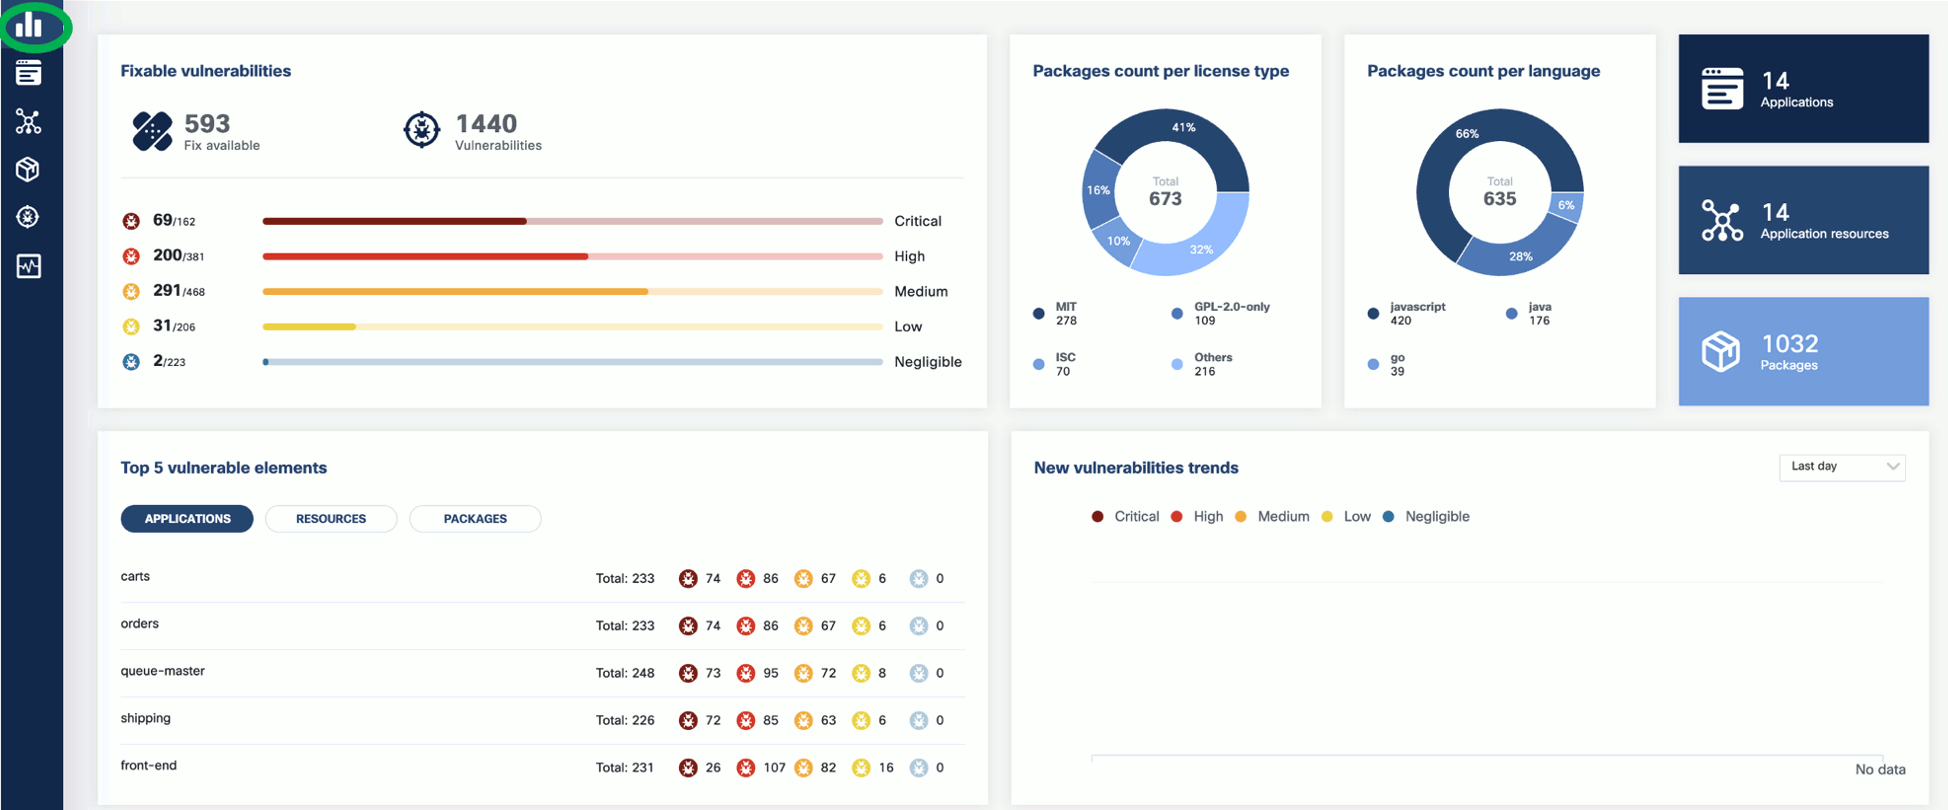
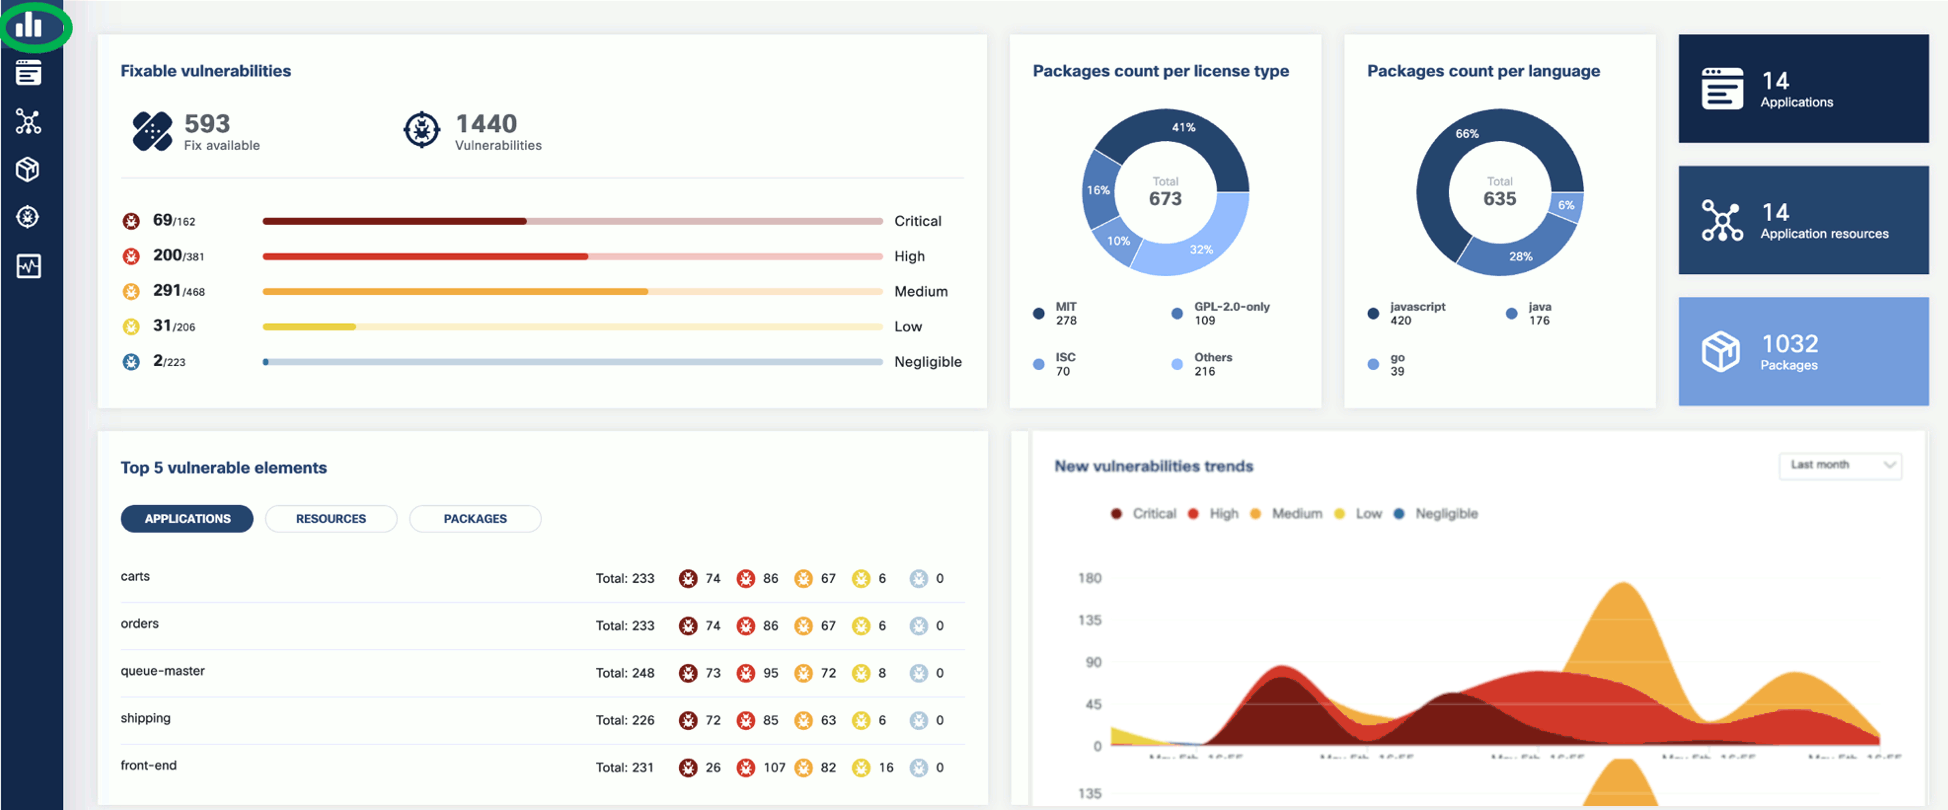
Adds vulnerability scans content
From https://techblog.cisco.com/blog/kubeclarity-vulnerability-scanning

diff --git a/content/docs/kubeclarity/concepts/vulnerability-scanning/_index.md b/content/docs/kubeclarity/concepts/vulnerability-scanning/_index.md
@@ -1,0 +1,35 @@
+---
+title: Vulnerability scanning
+weight: 300
+---
+
+Vulnerability scanning identifies weak spots in software code and dependencies. Vulnerability scanners can identify infrastructure, networks, applications, or website vulnerabilities. These tools scan various target systems for security flaws that attackers could exploit.
+
+The scanners use the information contained in the [SBOM]({{< relref "/docs/kubeclarity/concepts/sbom/_index.md" >}}) to identify vulnerabilities and potential security risks within software applications. Vulnerability scanners use SBOM information to:
+
+- Identify vulnerable components: Scanners use the SBOM to identify a software application’s components, then cross-reference this information with known vulnerabilities and security issues to identify vulnerable components within the software.
+- Prioritize vulnerabilities: After the vulnerability scanner has identified all vulnerable components within the software application, it uses the SBOM to prioritize the vulnerabilities so you can focus on the most critical vulnerabilities.
+- Identify supply chain risks: SBOMs provide visibility into the software supply chain, enabling vulnerability scanners to identify third-party or security risks. As a result, organizations can mitigate supply chain risks and reduce their overall security exposure.
+- Track changes and updates: Software vulnerability scanners use SBOM information to determine whether software changes have introduced new vulnerabilities or security risks.
+
+The SBOM is a critical tool for vulnerability scanners, providing the information needed to identify, prioritize, and mitigate security risks within software applications. In addition, scanners also rely on other types of inputs, as listed below.
+
+## KubeClarity and vulnerability scanning
+
+KubeClarity isn’t a vulnerability scanner but integrates with top opensource vulnerability scanners. It also helps with prioritization and risk management by visualization and filtering. It is often necessary to prioritize CVEs because of the sheer volume of identified CVEs. With KubeClarity’s vulnerability trending dashboard and APIs, you can locate and double-click into a specific CVE in your application or infrastructure.
+
+KubeClarity features a range of flexible and dynamic filters that help map CVEs down to an application->package->Image level. Additionally, it normalizes reports from multiple scanners and calculates missing [CVSS (Common Vulnerability Scoring System) scores](https://www.first.org/cvss/specification-document).
+
+{{< include-headless "kubeclarity/supported-vulnerability-scanners.md" >}}
+
+KubeClarity supports both automatic scans to find common vulnerabilities quickly and efficiently, and manual scans to help verify automated scans, and also to help identify more complex and less common vulnerabilities. In addition to conventional scans, KubeClarity also provides multi-scanner integration.
+
+## Multi-scanner architecture
+
+KubeClarity infrastructure enables multiple scanners’ configuration and simultaneous operation. Scanners in KubeClarity are designed to work in parallel.
+
+The following figure shows the multi-scanner architecture for vulnerability scanning: KubeClarity preprocesses the SBOMs so they conform to the specific formatting requirements of the specific scanner. Each scanner may have different types and unique formatting expectations. The scanners analyze the incoming data and generate vulnerability outputs in their native formats.
+
+![Multi-scanner architecture](multi-scanner-vulnerability-scanning.png)
+
+KubeClarity can merge the vulnerability reports of different scanners, to include severity levels, sources, and available fixes. These reports serve as valuable outputs, allowing you to filter and focus on specific areas of vulnerabilities for further investigation and resolution.

diff --git a/content/docs/kubeclarity/getting-started/first-tasks/_index.md b/content/docs/kubeclarity/getting-started/first-tasks/_index.md
@@ -25,7 +25,9 @@ You can list the content analyzers to use using the `ANALYZER_LIST` environment 
 ANALYZER_LIST="syft gomod" kubeclarity-cli analyze --input-type image nginx:latest -o nginx.sbom
 ```
 
-## Vulnerability scanning
+## Vulnerability scan
+
+You can scan vulnerabilities by running the appropriate commands. The CLI provides flexibility and automation capabilities for integrating vulnerability scanning into your existing workflows or CI/CD pipelines. The tool allows scanning an image, directory, file, or a previously generated SBOM.
 
 Usage:
 
@@ -43,6 +45,40 @@ You can list the vulnerability scanners to use using the `SCANNERS_LIST` environ
 
 ```shell
 SCANNERS_LIST="grype trivy" kubeclarity-cli scan nginx.sbom --input-type sbom
+```
+
+Example output:
+
+```shell
+INFO[0000] Called trivy scanner on source sbom nginx.sbom  app=kubeclarity scanner=trivy
+INFO[0000] Loading DB. update=true                       app=kubeclarity mode=local scanner=grype
+INFO[0000] Need to update DB                             app=kubeclarity scanner=trivy
+INFO[0000] DB Repository: ghcr.io/aquasecurity/trivy-db  app=kubeclarity scanner=trivy
+INFO[0000] Downloading DB...                             app=kubeclarity scanner=trivy
+INFO[0010] Gathering packages for source sbom:nginx.sbom  app=kubeclarity mode=local scanner=grype
+INFO[0010] Found 136 vulnerabilities                     app=kubeclarity mode=local scanner=grype
+INFO[0011] Sending successful results                    app=kubeclarity mode=local scanner=grype
+INFO[0011] Got result for job "grype"                    app=kubeclarity
+INFO[0012] Vulnerability scanning is enabled             app=kubeclarity scanner=trivy
+INFO[0012] Detected SBOM format: cyclonedx-json          app=kubeclarity scanner=trivy
+INFO[0012] Detected OS: debian                           app=kubeclarity scanner=trivy
+INFO[0012] Detecting Debian vulnerabilities...           app=kubeclarity scanner=trivy
+INFO[0012] Number of language-specific files: 1          app=kubeclarity scanner=trivy
+INFO[0012] Detecting jar vulnerabilities...              app=kubeclarity scanner=trivy
+INFO[0012] Sending successful results                    app=kubeclarity scanner=trivy
+INFO[0012] Found 136 vulnerabilities                     app=kubeclarity scanner=trivy
+INFO[0012] Got result for job "trivy"                    app=kubeclarity
+INFO[0012] Merging result from "grype"                   app=kubeclarity
+INFO[0012] Merging result from "trivy"                   app=kubeclarity
+NAME              INSTALLED                FIXED-IN  VULNERABILITY     SEVERITY    SCANNERS
+curl              7.74.0-1.3+deb11u7                 CVE-2023-23914    CRITICAL    grype(*), trivy(*)
+curl              7.74.0-1.3+deb11u7                 CVE-2023-27536    CRITICAL    grype(*), trivy(*)
+libcurl4          7.74.0-1.3+deb11u7                 CVE-2023-27536    CRITICAL    grype(*), trivy(*)
+libdb5.3          5.3.28+dfsg1-0.8                   CVE-2019-8457     CRITICAL    grype(*), trivy(*)
+libcurl4          7.74.0-1.3+deb11u7                 CVE-2023-23914    CRITICAL    grype(*), trivy(*)
+perl-base         5.32.1-4+deb11u2                   CVE-2023-31484    HIGH        grype(*), trivy(*)
+libss2            1.46.2-2                           CVE-2022-1304     HIGH        grype(*), trivy(*)
+bash              5.1-2+deb11u1                      CVE-2022-3715     HIGH        grype(*), trivy(*)
 ```
 
 ## Export results to KubeClarity backend

diff --git a/content/docs/kubeclarity/getting-started/first-tasks-ui/_index.md b/content/docs/kubeclarity/getting-started/first-tasks-ui/_index.md
@@ -12,7 +12,7 @@ After you have [installed the KubeClarity backend]({{< relref "/docs/kubeclarity
 
 <!-- FIXME what does the runtime scan actually do? -->
 
-To start a runtime scan from the UI, complete the following steps.
+To start a [runtime scan]({{< relref "/docs/kubeclarity/concepts/runtime-scans/_index.md" >}}) from the UI, complete the following steps.
 
 <!-- FIXME link to doing that from the cli -->
 
@@ -36,3 +36,25 @@ To start a runtime scan from the UI, complete the following steps.
     Now that you have run a scan, a summary of the results also appears on the dashboard page of the UI.
 
     ![Dashboard with data](dashboard-with-data.png)
+
+## Vulnerability scan
+
+1. To see the results of a vulnerability scan, select the **Vulnerabilities** page in KubeClarity UI. It shows a report including the vulnerability names, severity, the package of origin, available fixes, and attribution to the scanner that reported the vulnerability.
+
+    ![Vulnerability scan results](vulnerability-scan-results.png)
+
+1. You can click on any of these fields to access more in-depth information. For example, click on the name of a vulnerability in the **VULNERABILITY NAME** column.
+
+    ![Details of a vulnerability](vulnerability-scan-details.png)
+
+1. Select **CVSS** to show the CVSS scores and other details reported from the scanning process.
+
+    ![CVSS scores](vulnerability-scan-cvss.png)
+
+1. Navigate back to the **Vulnerabilities** view to explore the filtering options. Filtering helps you reduce noise and improve efficiency in identifying and potentially fixing crucial vulnerabilities.
+
+    ![Filtering vulnerability scan results](vulnerability-scan-filter.png)
+
+1. The KubeClarity **Dashboard** gives you insights into vulnerability trends and fixable vulnerabilities.
+
+    ![KubeClarity dashboard](dashboard-with-data.png)

diff --git a/content/docs/kubeclarity/features/_index.md b/content/docs/kubeclarity/features/_index.md
@@ -51,8 +51,4 @@ weight: 200
 
 {{< include-headless "kubeclarity/supported-sbom-generators.md" >}}
 
-KubeClarity vulnerability scanner integrates with the following scanners:
-
-- [Grype](https://github.com/anchore/grype)
-- [Dependency-Track](https://github.com/DependencyTrack/dependency-track)
-- [Trivy](https://github.com/aquasecurity/trivy)
+{{< include-headless "kubeclarity/supported-vulnerability-scanners.md" >}}

diff --git a/content/headless/kubeclarity/supported-vulnerability-scanners.md b/content/headless/kubeclarity/supported-vulnerability-scanners.md
@@ -1,0 +1,5 @@
+KubeClarity vulnerability scanner integrates with the following scanners:
+
+- [Grype](https://github.com/anchore/grype)
+- [Dependency-Track](https://github.com/DependencyTrack/dependency-track)
+- [Trivy](https://github.com/aquasecurity/trivy)
